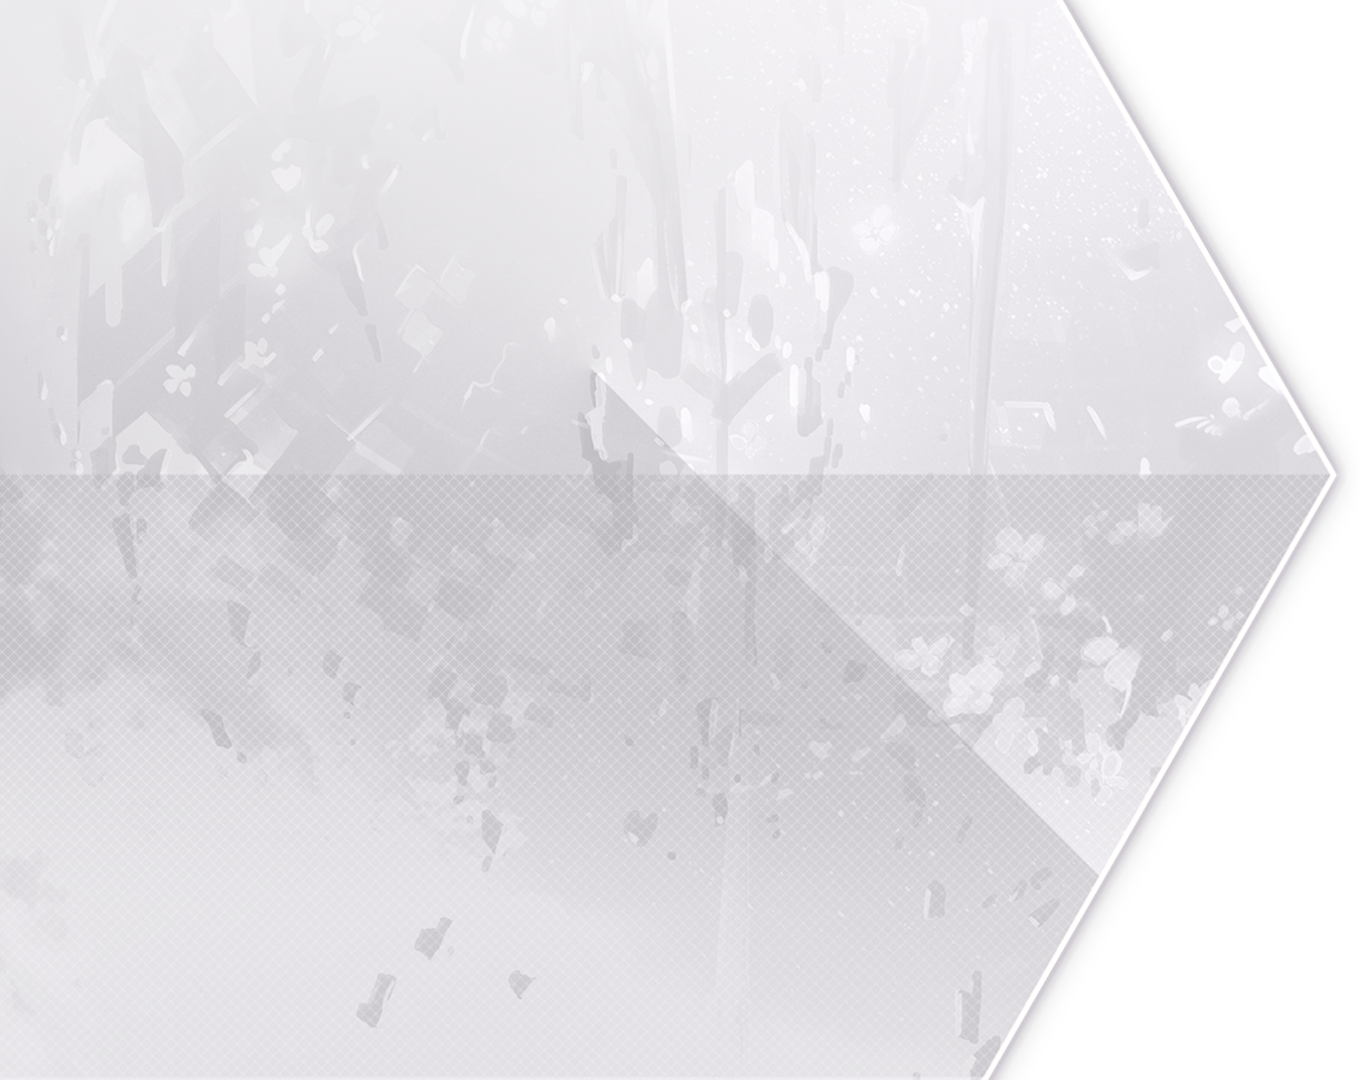
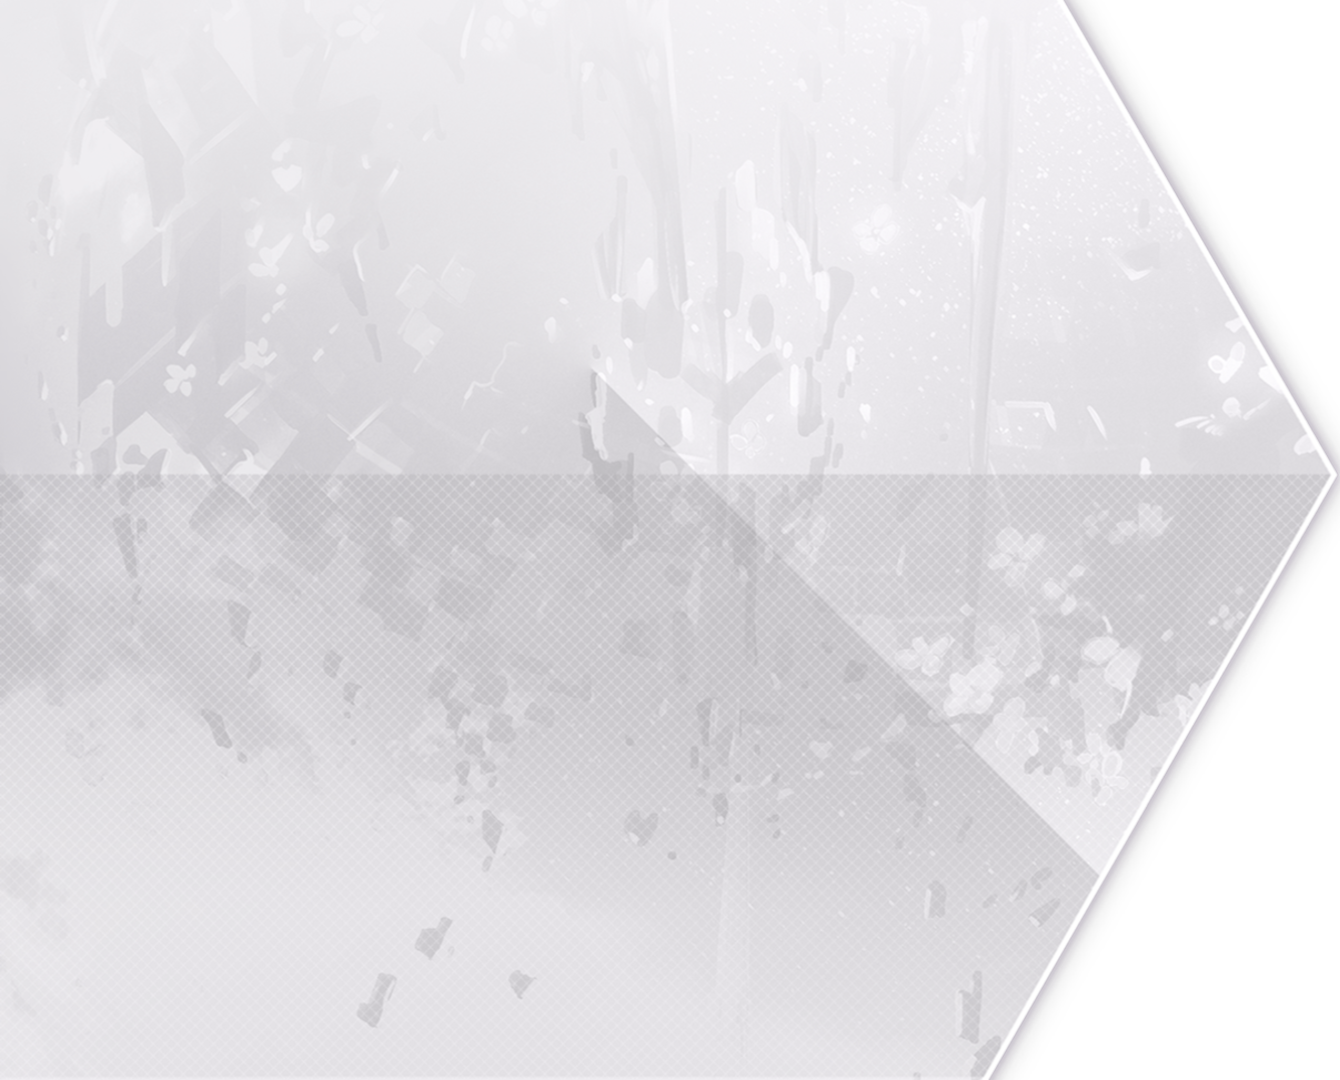
报告前最后一次推送

diff --git a/src/main/java/io/github/phiseecodyhsp/arcstory/SetStage.java b/src/main/java/io/github/phiseecodyhsp/arcstory/SetStage.java
@@ -5,6 +5,7 @@ import io.github.phiseecodyhsp.arcstory.storage.Resources;
 import io.github.phiseecodyhsp.arcstory.storyMode.ChapterPane;
 import io.github.phiseecodyhsp.arcstory.storyMode.ChapterSelectionPane;
 import javafx.animation.*;
+import javafx.geometry.Pos;
 import javafx.scene.Node;
 import javafx.scene.Scene;
 import javafx.scene.control.Label;
@@ -65,7 +66,6 @@ public class SetStage extends Stage {
                 scene.getHeight() / (Util.PRIMARY_SCREEN_HEIGHT));
         root.setScaleX(scale);
         root.setScaleY(scale);
-        System.out.println(currentNode.getOpacity());
     }
 
     public void transitionNode(Node newNode) {
@@ -90,23 +90,26 @@ public class SetStage extends Stage {
         root.getChildren().add(currentNode);
         ft1.playFromStart();
         ft2.playFromStart();
+
+        if (currentNode instanceof ChapterSelectionPane || currentNode instanceof ChapterPane) {
+            if (!isBgmPlaying()) {
+                playBgm(Resources.STORY_MODE_BGM);
+            } else {
+                if (!Objects.equals(bgmPlayer.getMedia().getSource(), Resources.STORY_MODE_BGM)) {
+                    bgmPlayer.stop();
+                    playBgm(Resources.STORY_MODE_BGM);
+                }
+            }
+        } else {
+            if (isBgmPlaying()) {
+                bgmPlayer.stop();
+            }
+        }
     }
 
     public void transitionBack() {
         if (lastNode != null) {
             transitionNode(lastNode);
-        }
-    }
-
-    public void switchNode(Loading.Type type, Node newNode) {
-        lastNode = currentNode;
-        currentNode = newNode;
-        loading.play(type);
-    }
-
-    public void switchBack(Loading.Type type) {
-        if (lastNode != null) {
-            switchNode(type, lastNode);
         }
     }
 
@@ -124,17 +127,35 @@ public class SetStage extends Stage {
             lastNode.setOpacity(1);
             ft2.playFromStart();
             lastNode.setMouseTransparent(false);
+            if (currentNode instanceof ChapterSelectionPane || currentNode instanceof ChapterPane) {
+                playBgm(Resources.STORY_MODE_BGM);
+            }
         });
         ft2.setToValue(1);
         ft2.setOnFinished(_ -> currentNode.setMouseTransparent(false));
 
         lastNode.setMouseTransparent(true);
         ft1.playFromStart();
+        if (isBgmPlaying()) {
+            bgmPlayer.stop();
+        }
     }
 
     public void switchBack() {
         if (lastNode != null) {
             switchNode(lastNode);
+        }
+    }
+
+    public void switchNode(Loading.Type type, Node newNode) {
+        lastNode = currentNode;
+        currentNode = newNode;
+        loading.play(type);
+    }
+
+    public void switchBack(Loading.Type type) {
+        if (lastNode != null) {
+            switchNode(type, lastNode);
         }
     }
 
@@ -158,22 +179,6 @@ public class SetStage extends Stage {
                 chart.paradigms);
     }
 
-    //TODO
-    public void checkBgm() {
-        if (currentNode instanceof ChapterSelectionPane || currentNode instanceof ChapterPane) {
-            if (bgmPlayer == null || bgmPlayer.getStatus() == MediaPlayer.Status.STOPPED) {
-                playBgm(Resources.STORY_MODE_BGM);
-            } else {
-                if (!Objects.equals(bgmPlayer.getMedia().getSource(), Resources.STORY_MODE_BGM)) {
-                    bgmPlayer.stop();
-                    playBgm(Resources.STORY_MODE_BGM);
-                }
-            }
-        } else {
-            bgmPlayer.stop();
-        }
-    }
-
     private void playBgm(String path) {
         bgmPlayer = new MediaPlayer(new Media(path));
         bgmPlayer.setCycleCount(AudioClip.INDEFINITE);
@@ -181,7 +186,10 @@ public class SetStage extends Stage {
         bgmPlayer.play();
     }
 
-    //TODO
+    private boolean isBgmPlaying() {
+        return bgmPlayer != null && bgmPlayer.getStatus() == MediaPlayer.Status.PLAYING;
+    }
+
     public class Loading extends StackPane {
         public static final double TRANS_TIME = 1;
         private static final int LABEL_DISPLACEMENT = 0;
@@ -226,15 +234,18 @@ public class SetStage extends Stage {
             illustrationView.setFitHeight(ILLUSTRATION_SIZE);
             paradigms.setOpacity(PARADIGMS_OPACITY);
 
+            StackPane.setAlignment(left, Pos.CENTER_LEFT);
+            StackPane.setAlignment(right, Pos.CENTER_RIGHT);
             onLAdded.setInterpolator(Util.EASE_IN);
             onLRemoved.setInterpolator(Util.EASE_OUT);
-            onRAdded.setInterpolator(Util.EASE_IN);
-            onRRemoved.setInterpolator(Util.EASE_OUT);
             onLRemoved.setOnFinished(_ -> {
                 lastNode.setMouseTransparent(false);
                 currentNode.setMouseTransparent(false);
                 root.getChildren().remove(this);
             });
+            onRAdded.setInterpolator(Util.EASE_IN);
+            onRRemoved.setInterpolator(Util.EASE_OUT);
+
 
             onLabelPaneAdded.setInterpolator(Util.EASE_IN);
 
@@ -251,11 +262,6 @@ public class SetStage extends Stage {
             onPaneRemoved.setToValue(0);
 
             DELAY.setOnFinished(_ -> {
-                onLAdded.stop();
-                onRAdded.stop();
-                onLabelPaneAdded.stop();
-                onIllustrationAdded.stop();
-                onPaneAdded.stop();
                 onLRemoved.playFromStart();
                 onRRemoved.playFromStart();
                 onIllustrationRemoved.playFromStart();
@@ -277,28 +283,28 @@ public class SetStage extends Stage {
             noteDesigner.setFont(FONT);
             musicName.setTextFill(Color.WHITE);
             musicName.setFont(FONT);
+
+            setMinSize(Util.PRIMARY_SCREEN_WIDTH, Util.PRIMARY_SCREEN_HEIGHT);
         }
 
+        //TODO
         private void play(@NotNull SetStage.Loading.Type type) {
             type.setImage(this);
+
+            Resources.playSound(Resources.LOADING_START_SOUND);
 
             lastNode.setMouseTransparent(true);
             currentNode.setMouseTransparent(true);
 
             root.getChildren().add(this);
             onLAdded.setOnFinished(_ -> {
-                onLAdded.stop();
-                onRAdded.stop();
+                Resources.playSound(Resources.LOADING_END_SOUND);
                 onLRemoved.playFromStart();
                 onRRemoved.playFromStart();
-                Resources.playSound(Resources.LOADING_END_SOUND);
                 root.getChildren().set(0, currentNode);
             });
-            onLRemoved.stop();
-            onRRemoved.stop();
             onLAdded.playFromStart();
             onRAdded.playFromStart();
-            Resources.playSound(Resources.LOADING_START_SOUND);
 
             getChildren().clear();
             getChildren().addAll(left, right);
@@ -313,6 +319,7 @@ public class SetStage extends Stage {
                          String noteDesigner,
                          @NotNull Chart.Paradigms paradigms) {
             type.setImage(this);
+            Resources.playSound(Resources.START_SOUND);
 
             this.musicName.setText(musicName);
             this.composer.setText(composer);
@@ -321,20 +328,12 @@ public class SetStage extends Stage {
             paradigms.setParadigms(this.paradigms);
 
             root.getChildren().add(this);
-            onLAdded.setOnFinished(_ -> {
-                DELAY.stop();
-                DELAY.playFromStart();
-            });
-            onLRemoved.stop();
-            onRRemoved.stop();
-            onIllustrationRemoved.stop();
-            onPaneRemoved.stop();
+            onLAdded.setOnFinished(_ -> DELAY.playFromStart());
             onLAdded.playFromStart();
             onRAdded.playFromStart();
             onLabelPaneAdded.playFromStart();
             onIllustrationAdded.playFromStart();
             onPaneAdded.playFromStart();
-            Resources.playSound(Resources.START_SOUND);
 
             labelPane.getChildren().clear();
             labelPane.getChildren().addAll(
@@ -365,16 +364,16 @@ public class SetStage extends Stage {
 
         //TODO: 素材替换
         public enum Type {
-            NORMAL(Resources.NORMAL_TRANSANIMA_L, Resources.NORMAL_TRANSANIMA_R),
-            COURSE(Resources.NORMAL_TRANSANIMA_L, Resources.NORMAL_TRANSANIMA_R),
-            GRIEVOUS(Resources.NORMAL_TRANSANIMA_L, Resources.NORMAL_TRANSANIMA_R),
-            FRACTURE(Resources.NORMAL_TRANSANIMA_L, Resources.NORMAL_TRANSANIMA_R),
-            TEMPESTISSIMO(Resources.NORMAL_TRANSANIMA_L, Resources.NORMAL_TRANSANIMA_R),
-            FINAL(Resources.NORMAL_TRANSANIMA_L, Resources.NORMAL_TRANSANIMA_R),
-            ARGHENA(Resources.NORMAL_TRANSANIMA_L, Resources.NORMAL_TRANSANIMA_R),
-            ALTER(Resources.NORMAL_TRANSANIMA_L, Resources.NORMAL_TRANSANIMA_R),
-            DESIGNANT(Resources.NORMAL_TRANSANIMA_L, Resources.NORMAL_TRANSANIMA_R),
-            UNDYING(Resources.NORMAL_TRANSANIMA_L, Resources.NORMAL_TRANSANIMA_R);
+            NORMAL(Resources.NORMAL_LOADING_L, Resources.NORMAL_LOADING_R),
+            COURSE(Resources.NORMAL_LOADING_L, Resources.NORMAL_LOADING_R),
+            GRIEVOUS(Resources.NORMAL_LOADING_L, Resources.NORMAL_LOADING_R),
+            FRACTURE(Resources.NORMAL_LOADING_L, Resources.NORMAL_LOADING_R),
+            TEMPESTISSIMO(Resources.NORMAL_LOADING_L, Resources.NORMAL_LOADING_R),
+            FINAL(Resources.NORMAL_LOADING_L, Resources.NORMAL_LOADING_R),
+            ARGHENA(Resources.NORMAL_LOADING_L, Resources.NORMAL_LOADING_R),
+            ALTER(Resources.NORMAL_LOADING_L, Resources.NORMAL_LOADING_R),
+            DESIGNANT(Resources.NORMAL_LOADING_L, Resources.NORMAL_LOADING_R),
+            UNDYING(Resources.NORMAL_LOADING_L, Resources.NORMAL_LOADING_R);
 
             private final String leftImagePath;
             private final String rightImagePath;

diff --git a/src/main/java/io/github/phiseecodyhsp/arcstory/storage/Resources.java b/src/main/java/io/github/phiseecodyhsp/arcstory/storage/Resources.java
@@ -23,8 +23,8 @@ public final class Resources {
     public static final String Tairitsu_AWAKEN_AVATAR;
     public static final String SUC_BG0;
     public static final String SUC_BG1;
-    public static final String NORMAL_TRANSANIMA_L;
-    public static final String NORMAL_TRANSANIMA_R;
+    public static final String NORMAL_LOADING_L;
+    public static final String NORMAL_LOADING_R;
     public static final String TRANSANIMA_SHADOW;
     public static final String COVER;
 
@@ -58,8 +58,8 @@ public final class Resources {
         Tairitsu_AWAKEN_AVATAR = ofString("images/Partner_1_awaken_icon.png");
         SUC_BG0 = ofString("images/未标题-1.png");
         SUC_BG1 = ofString("images/未标题-1.png");
-        NORMAL_TRANSANIMA_L = ofString("images/TransAnimaL_resized.png");
-        NORMAL_TRANSANIMA_R = ofString("images/TransAnimaR_resized.png");
+        NORMAL_LOADING_L = ofString("images/TransAnimaL_resized.png");
+        NORMAL_LOADING_R = ofString("images/TransAnimaR_resized.png");
         TRANSANIMA_SHADOW = ofString("images/TransAnimaL_resized.png");
         COVER = ofString("images/cover.png");
 

diff --git a/src/main/java/io/github/phiseecodyhsp/arcstory/storyMode/ChapterPane.java b/src/main/java/io/github/phiseecodyhsp/arcstory/storyMode/ChapterPane.java
@@ -128,10 +128,13 @@ public class ChapterPane extends StackPane {
                 button.setTranslateX(Util.doubleToEven(l * (i + (d) / 2.0)));
                    if (button.unlocked && i + 1 < s) {
                        storyButtons.get(i + 1).enable();
+                   } else {
+                       updateLine();
                    }
             }
         }
 
+        //TODO: 出于未知原因, 存在 darkLine 时父容器的排版会出问题
         /**
          * 更新按钮之间的连线.
          *

diff --git a/src/main/java/io/github/phiseecodyhsp/arcstory/TestApplication.java b/src/main/java/io/github/phiseecodyhsp/arcstory/TestApplication.java
@@ -76,7 +76,7 @@ public class TestApplication extends Application {
         view.setPreserveRatio(true);
         view.setFitWidth(Util.PRIMARY_SCREEN_WIDTH);
         SetStage setStage = new SetStage(view);
-        view.setOnMouseClicked(_ -> setStage.switchNode(SetStage.Loading.Type.NORMAL, chapterPane));
+        view.setOnMouseClicked(_ -> setStage.transitionNode(chapterPane));
         BACK.setBorderOnMouseClicked(_ -> setStage.transitionBack());
         VIDEO.setBorderOnMouseClicked(_ -> getHostServices().showDocument(
                 "https://www.bilibili.com/video/BV1iCpozfE8w"));

diff --git a/README.md b/README.md
@@ -1,2 +1,4 @@
-两个少女前往探索一个支离破碎的世界。那里伴随着一个声音：一段尘封的过往即将被揭开...她们从这个除了废墟一无所有的世界中醒来，却丝毫不记得这里曾发生过的一切。这一刻她们才发现，自己也不过是虚无的存在。
+两个少女前往探索一个支离破碎的世界。那里伴随着一个声音：一段尘封的过往即将被揭开...
+
+她们从这个除了废墟一无所有的世界中醒来，却丝毫不记得这里曾发生过的一切。这一刻她们才发现，自己也不过是虚无的存在。
 而接下来，她们会发现一个名叫Arcaea的物体。它由空中漂浮着玻璃质感般的碎片所积聚而成，而这每一块碎片，都包含着来自过去的鲜活回忆。